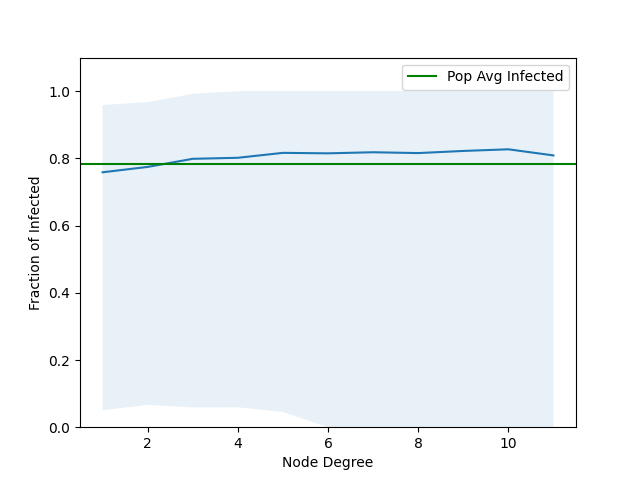
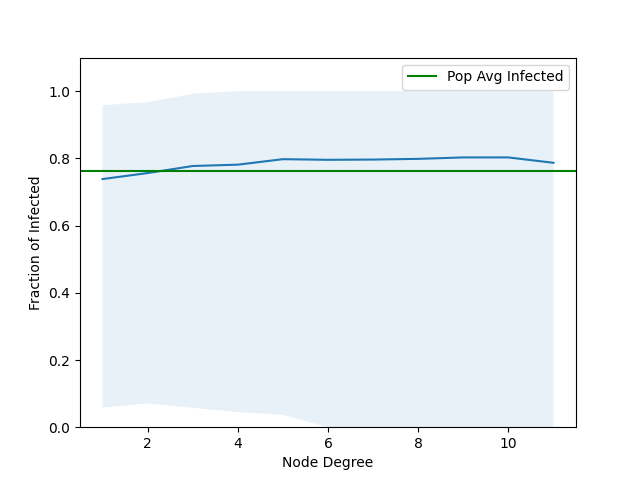
update plots

Changed region(s): [[0.125, 0.2812, 0.9062, 0.375]]

diff --git a/linear_thres.py b/linear_thres.py
@@ -15,10 +15,10 @@ N = 1000 #100
 Z = 3
 P = Z / N
 #THRES_LST = np.random.uniform(0, 1, size = N) #0.005
-THRES_UP_LST = [0.3, 0.6, 0.9] #np.linspace(0, 1, 11) #101
+THRES_UP_LST = np.linspace(0, 1, 21) #[0.3, 0.6, 0.9] #101
 FRAC_INFECTED = round(1 / np.log(N) ** 2, 2) #0.05
 NUM_ITR = 80
-NUM_TRIALS = 500 #30 #200
+NUM_TRIALS = 200 #30 #200
 D = 1
 BETA = 2/3
 W = D * (N / np.arange(1, N + 1)) ** BETA
@@ -173,67 +173,67 @@ def single_trial_degree(THRES_UP, get_graph = False):
 #plt.close()
 
 ## Get total infected fraction per threshold
-#frac_infected_lst = []
-#upper_lst = []
-#lower_lst = []
-#for THRES_UP in tqdm(THRES_UP_LST):
-#    frac_infected_trials = np.zeros(NUM_TRIALS)
-#    for trial in tqdm(range(NUM_TRIALS), leave = False):
-#        frac_infected, _ = single_trial_thres(THRES_UP)
-#        frac_infected_trials[trial] = frac_infected
-#    frac_infected_lst.append(np.mean(frac_infected_trials))
-#    upper_lst.append(np.quantile(frac_infected_trials, 0.975))
-#    lower_lst.append(np.quantile(frac_infected_trials, 0.025))
-#
-#plt.plot(THRES_UP_LST, frac_infected_lst)
-#plt.fill_between(THRES_UP_LST, lower_lst, upper_lst, alpha = 0.1)
-#plt.axvline(x = CUTOFF, color = "red")
-##plt.axvline(x = CUTOFF / 2, color = "green")
-#plt.axhline(y = 1, color = "black")
-#plt.xlabel("Maximum Threshold")
-#plt.ylabel("Fraction of Infected")
-##plt.title(f"rho = {FRAC_INFECTED}, p = {P}")
-#if GRAPH_TYPE == "Gnp":
-#    plt.savefig(f"FracInfected/frac-infected_type=gnp_n={N}_p={P}.png")
-#else:
-#    plt.savefig(f"FracInfected/frac-infected_type=chung-lu_d={D}_beta={round(BETA, 2)}.png")
-#plt.clf()
-#plt.close()
-
-## Get number of infected nodes per degree per threshold
 frac_infected_lst = []
 upper_lst = []
 lower_lst = []
 for THRES_UP in tqdm(THRES_UP_LST):
-    frac_infected_trials = np.zeros((NUM_TRIALS, N))
-    minmax_deg = N
-    frac_infected_all_trials = np.zeros(NUM_TRIALS)
+    frac_infected_trials = np.zeros(NUM_TRIALS)
     for trial in tqdm(range(NUM_TRIALS), leave = False):
-        degree_frac_infected, max_deg, frac_infected_all, _ = single_trial_degree(THRES_UP)
-        frac_infected_trials[trial,:] = degree_frac_infected
-        frac_infected_all_trials[trial] = frac_infected_all
-        minmax_deg = min(minmax_deg, max_deg)
-    frac_infected_lst = np.nanmean(frac_infected_trials, axis = 0)[1:(minmax_deg + 1)]
-    upper_lst = np.nanquantile(frac_infected_trials, 0.975, axis = 0)[1:(minmax_deg + 1)]
-    lower_lst = np.nanquantile(frac_infected_trials, 0.025, axis = 0)[1:(minmax_deg + 1)]
-    degree_lst = np.arange(1, minmax_deg + 1)
-    frac_infected_all = np.mean(frac_infected_all_trials)
+        frac_infected, _ = single_trial_thres(THRES_UP)
+        frac_infected_trials[trial] = frac_infected
+    frac_infected_lst.append(np.mean(frac_infected_trials))
+    upper_lst.append(np.quantile(frac_infected_trials, 0.975))
+    lower_lst.append(np.quantile(frac_infected_trials, 0.025))
 
-    plt.plot(degree_lst, frac_infected_lst)
-    plt.fill_between(degree_lst, lower_lst, upper_lst, alpha = 0.1)
-#    plt.axvline(x = 1, color = "red", label = "degree = 1")
-    plt.axhline(y = frac_infected_all, color = "green", label = "Pop Avg Infected")
-    plt.xlabel("Node Degree")
-    plt.ylabel("Fraction of Infected")
-    plt.ylim(0, 1.1)
-    plt.legend()
-#    plt.title(f"1/m = {round(THRES_UP, 2)}, Cutoff = {round(CUTOFF, 2)}\nrho = {FRAC_INFECTED}, p = {P}")
-    if GRAPH_TYPE == "Gnp":
-        plt.savefig(f"Degree/degree_type=gnp_n={N}_p={P}_maxthres={round(THRES_UP, 2)}.png")
-    else:
-        plt.savefig(f"Degree/degree_type=chung-lu_d={D}_beta={round(BETA, 2)}_maxthres={round(THRES_UP, 2)}.png")
-    plt.clf()
-    plt.close()
+plt.plot(THRES_UP_LST, frac_infected_lst)
+plt.fill_between(THRES_UP_LST, lower_lst, upper_lst, alpha = 0.1)
+plt.axvline(x = CUTOFF, color = "red")
+#plt.axvline(x = CUTOFF / 2, color = "green")
+plt.axhline(y = 1, color = "black")
+plt.xlabel("Maximum Threshold")
+plt.ylabel("Fraction of Infected")
+#plt.title(f"rho = {FRAC_INFECTED}, p = {P}")
+if GRAPH_TYPE == "Gnp":
+    plt.savefig(f"FracInfected/frac-infected_type=gnp_n={N}_p={P}.png")
+else:
+    plt.savefig(f"FracInfected/frac-infected_type=chung-lu_d={D}_beta={round(BETA, 2)}.png")
+plt.clf()
+plt.close()
+
+## Get number of infected nodes per degree per threshold
+#frac_infected_lst = []
+#upper_lst = []
+#lower_lst = []
+#for THRES_UP in tqdm(THRES_UP_LST):
+#    frac_infected_trials = np.zeros((NUM_TRIALS, N))
+#    minmax_deg = N
+#    frac_infected_all_trials = np.zeros(NUM_TRIALS)
+#    for trial in tqdm(range(NUM_TRIALS), leave = False):
+#        degree_frac_infected, max_deg, frac_infected_all, _ = single_trial_degree(THRES_UP)
+#        frac_infected_trials[trial,:] = degree_frac_infected
+#        frac_infected_all_trials[trial] = frac_infected_all
+#        minmax_deg = min(minmax_deg, max_deg)
+#    frac_infected_lst = np.nanmean(frac_infected_trials, axis = 0)[1:(minmax_deg + 1)]
+#    upper_lst = np.nanquantile(frac_infected_trials, 0.975, axis = 0)[1:(minmax_deg + 1)]
+#    lower_lst = np.nanquantile(frac_infected_trials, 0.025, axis = 0)[1:(minmax_deg + 1)]
+#    degree_lst = np.arange(1, minmax_deg + 1)
+#    frac_infected_all = np.mean(frac_infected_all_trials)
+#
+#    plt.plot(degree_lst, frac_infected_lst)
+#    plt.fill_between(degree_lst, lower_lst, upper_lst, alpha = 0.1)
+##    plt.axvline(x = 1, color = "red", label = "degree = 1")
+#    plt.axhline(y = frac_infected_all, color = "green", label = "Pop Avg Infected")
+#    plt.xlabel("Node Degree")
+#    plt.ylabel("Fraction of Infected")
+#    plt.ylim(0, 1.1)
+#    plt.legend()
+##    plt.title(f"1/m = {round(THRES_UP, 2)}, Cutoff = {round(CUTOFF, 2)}\nrho = {FRAC_INFECTED}, p = {P}")
+#    if GRAPH_TYPE == "Gnp":
+#        plt.savefig(f"Degree/degree_type=gnp_n={N}_p={P}_maxthres={round(THRES_UP, 2)}.png")
+#    else:
+#        plt.savefig(f"Degree/degree_type=chung-lu_d={D}_beta={round(BETA, 2)}_maxthres={round(THRES_UP, 2)}.png")
+#    plt.clf()
+#    plt.close()
 
 ## Debugging Region
 #single_trial(0.8)
